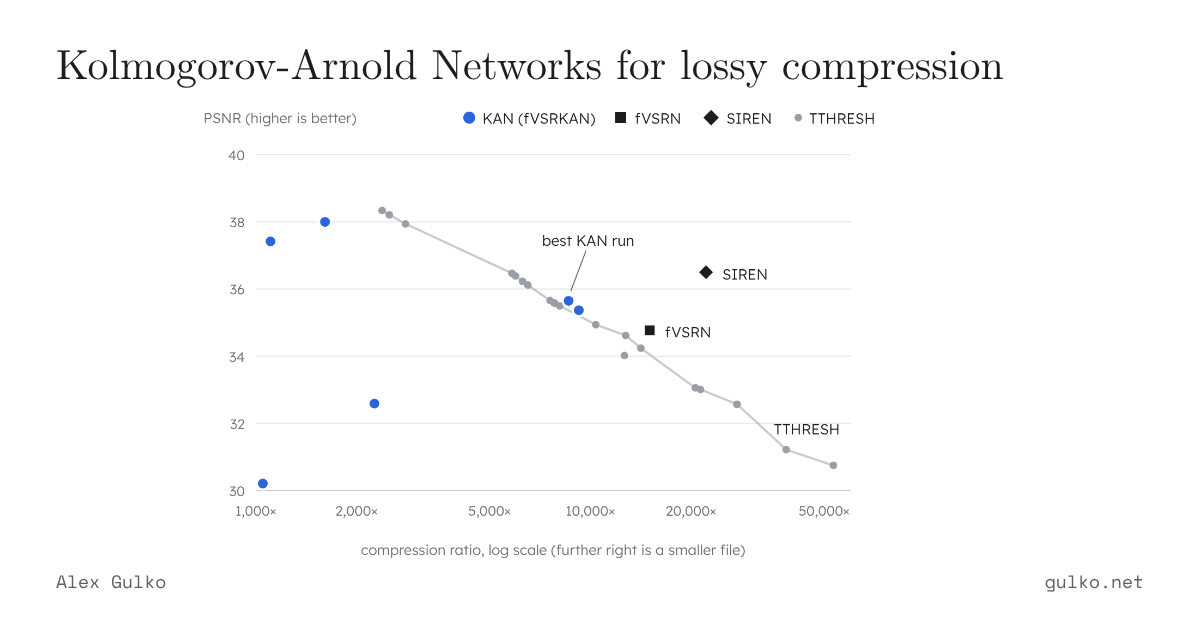
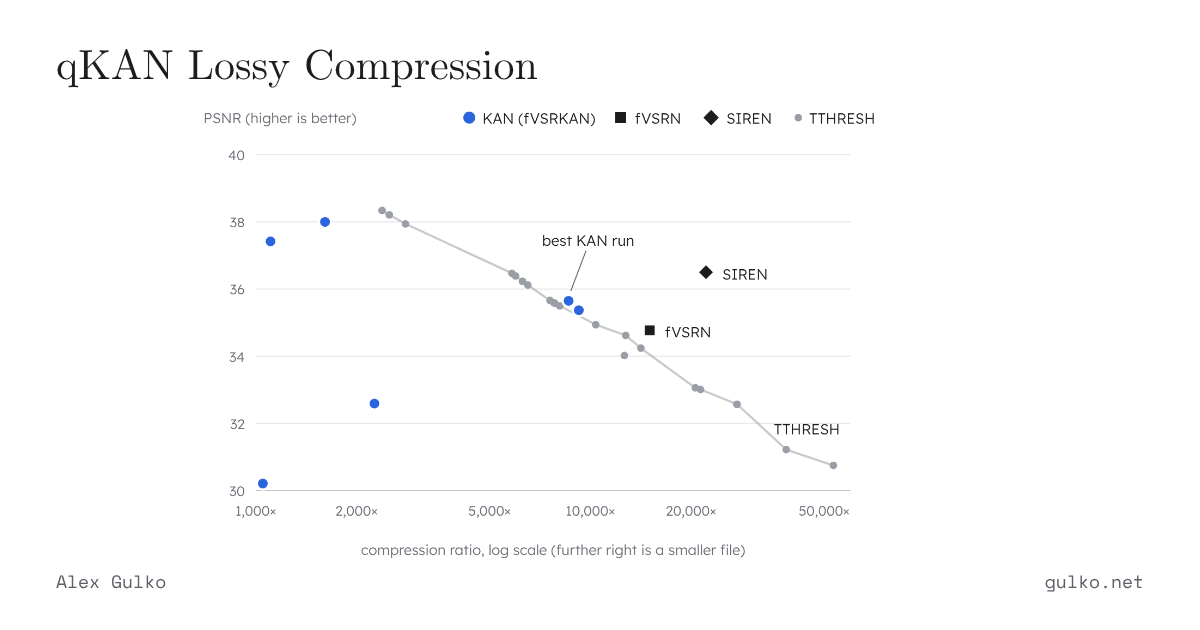
feat(papers): qKAN title and co-author, trim the thesis write-up
- The KAN entry is titled "qKAN Lossy Compression" and lists Hanqi Guo
  as co-author; authors can now carry a link to their website
- The FlashStieltjes write-up no longer has the "What it costs" section

Claude-Session: https://claude.ai/code/session_019cdfwKZBkDSL862bDTXfwe

Changed region(s): [[0.0308, 0.0603, 0.8325, 0.1508]]

diff --git a/src/content/config.ts b/src/content/config.ts
@@ -40,7 +40,8 @@ const papersCollection = defineCollection({
   type: 'content',
   schema: z.object({
     title: z.string(),
-    authors: z.array(z.string()).min(1), // a trailing * marks equal contribution
+    // a name, or a name with a link to that person's website; a trailing * marks equal contribution
+    authors: z.array(z.union([z.string(), z.object({ name: z.string(), url: z.string() })])).min(1),
     note: z.string().optional(), // shown after the authors, e.g. the advisor of a thesis
     venue: z.string(),
     date: z.string(), // publication date, used for sorting
